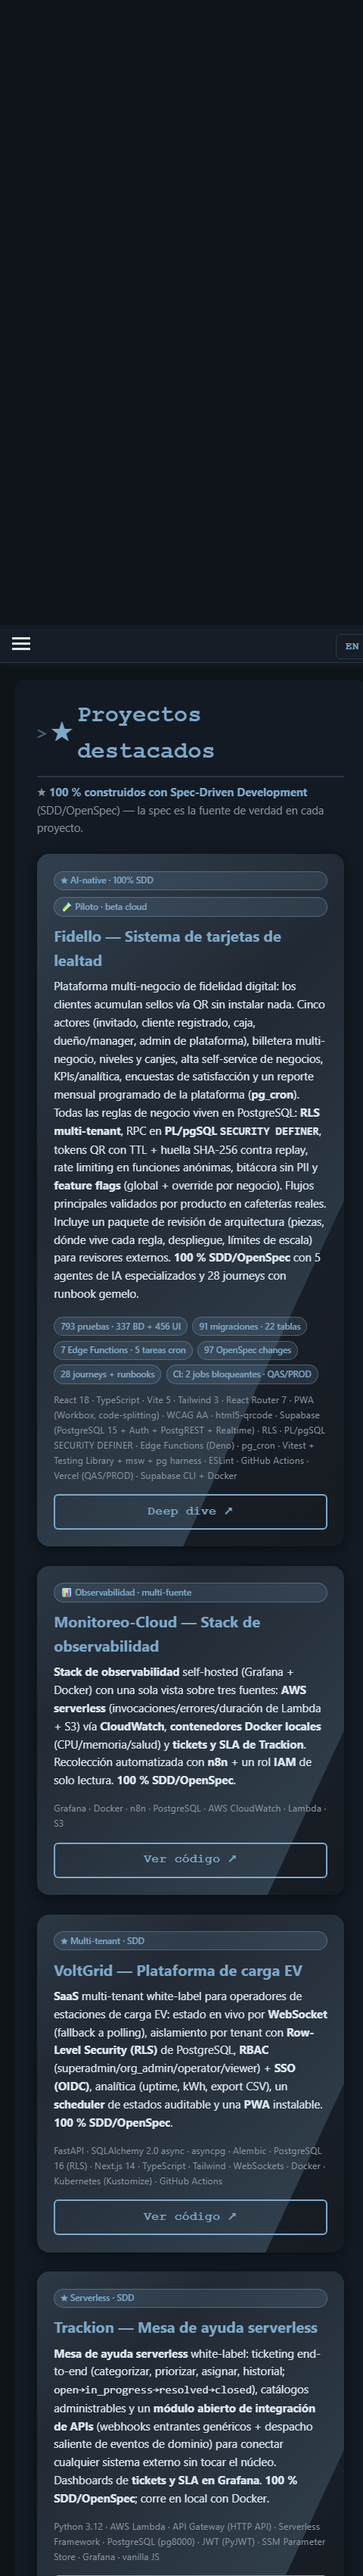
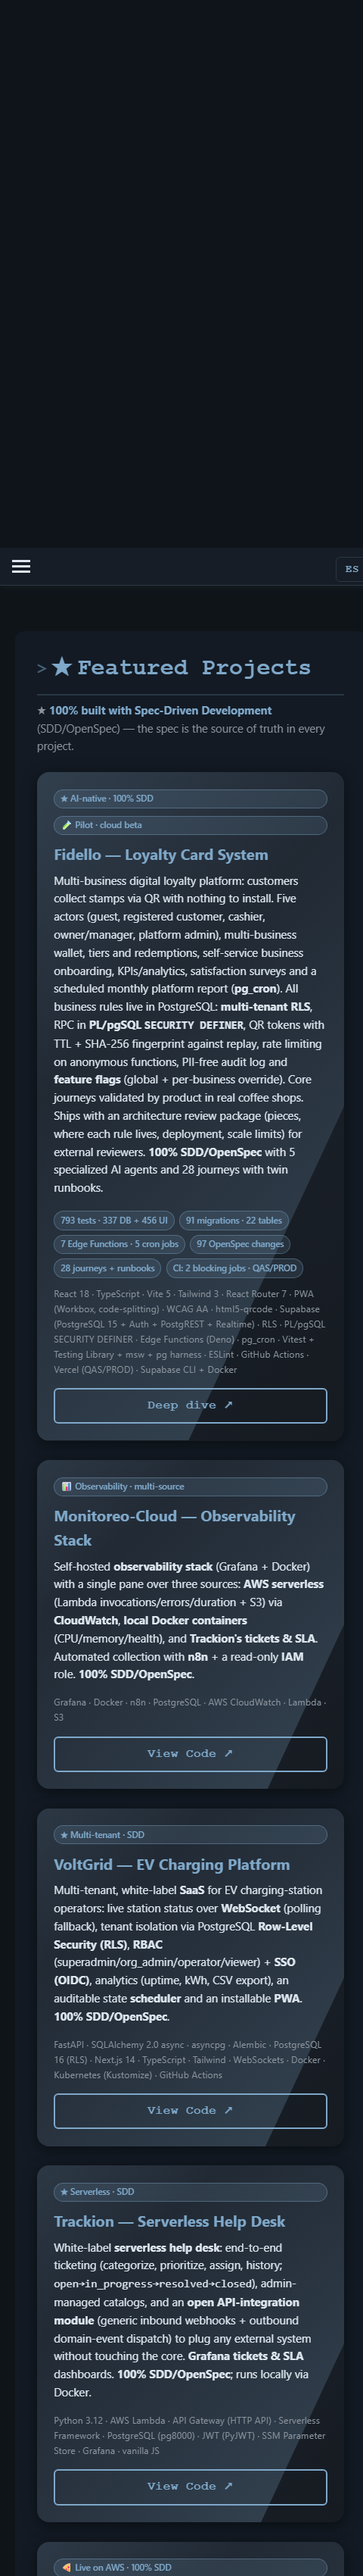
docs(openspec): capturas EN de index.html forzadas con ?lang=en (la máquina resuelve es-MX por defecto)

Changed region(s): [[0.0938, 0.2494, 0.9688, 1.0]]

diff --git a/openspec/changes/mejoras-portafolio-ai-native/reports/2026-09-20-case-study-y-deep-dives.md b/openspec/changes/mejoras-portafolio-ai-native/reports/2026-09-20-case-study-y-deep-dives.md
@@ -18,7 +18,8 @@
 - `python <scratchpad>/probe_dom.py blog/... index.html?lang=en index.html?lang=es` — Chrome `--headless=new --dump-dom`
   con script inyectado en copia temporal (`_probe_*.html`, borrada al terminar): `scrollWidth <= innerWidth` en 480/768/1280,
   presencia de botones "Deep dive", card del caso de estudio y `<svg>` de arquitectura, título traducido en ES
-- `python <scratchpad>/shot.py <out> anatomia=... fidello=... pyzzeria=... index-writing=index.html#writing index-projects=index.html#featured-projects index-writing-es=index.html?lang=es#writing ...`
+- `python <scratchpad>/shot.py <out> anatomia=... fidello=... pyzzeria=... index-writing=index.html?lang=en#writing index-projects=index.html?lang=en#featured-projects index-writing-es=index.html?lang=es#writing`
+  (la máquina tiene `navigator.language` es-MX: sin `?lang=en` las capturas de `index.html` salen en ES — primera tanda repetida con `?lang=en`)
   — Chrome `--headless=new --disable-gpu --hide-scrollbars --virtual-time-budget=5000 --user-data-dir=<tmp único> --window-size=W,H --screenshot=<png>` en 1280/768/480
 - `python -c "import xml.dom.minidom; xml.dom.minidom.parse('sitemap.xml')"` — sitemap válido tras añadir las 6 páginas del blog
 - `Get-Command lighthouse; npx --no-install lighthouse --version` — **no hay CLI de Lighthouse** en la máquina
@@ -57,7 +58,7 @@ Capturas en `reports/shots/`: `{anatomia,fidello,pyzzeria,index-writing,index-pr
 | Deep dive Fidello (`fidello_*.png`) | Diagrama SVG: 5 actores → PWA → Supabase (Auth/PostgREST/Realtime/7 Edge Functions) → PostgreSQL (RLS, RPC SECURITY DEFINER, pg_cron) + CI; franja "built, flag off" (Wallet/OAuth/Resend/WhatsApp) — no se presentan como activos; sin botón de código, CTA "Request a demo" |
 | Deep dive Pyzzeria (`pyzzeria_*.png`) | Primera versión del SVG tenía etiquetas solapadas y ruta WS recortada → rediseñado por filas (request path sólido, push WS punteado); 0 cruces de etiquetas; CTAs Live demo + View code |
 | Diagramas a 480 px | `.diagram{overflow-x:auto}` + `svg{min-width:600px}`: se desplaza el diagrama, no la página (`scrollW 489 <= innerW 504`) |
-| `index.html#writing` EN/ES (`index-writing*.png`) | Card nueva en primera posición con badge, meta y botón; ES: "Anatomía de un cambio…", "★ Caso de estudio", "Leer ↗"; intro con enlaces Fidello · Pyzzeria |
+| `index.html?lang=en#writing` / `?lang=es#writing` (`index-writing*.png`, `index-writing-es*.png`) | Card nueva en primera posición con badge, meta y botón; ES: "Anatomía de un cambio…", "★ Caso de estudio", "Leer ↗"; intro con enlaces Fidello · Pyzzeria |
 | `index.html#featured-projects` (`index-projects_*.png`) | Fidello: botón "Deep dive ↗" tras `.tech` (sin "View Code"); Pyzzeria: Live Demo · View Code · Deep dive en fila con wrap; grilla intacta en 1280/768/480 |
 | Responsive 992/768/480 | Sin overflow horizontal en las 15 combinaciones probadas (probe DOM); paleta y CSS embebido sin cambios; 0 CDN |
 | Casos de error | Enlace a una página inexistente inyectado en copia temporal → `verify_pages.py` reporta FAIL (luego se borró la copia); `index.html#seccion-inexistente` sigue cayendo en `ai-method` (comportamiento previo, sin cambios) |
